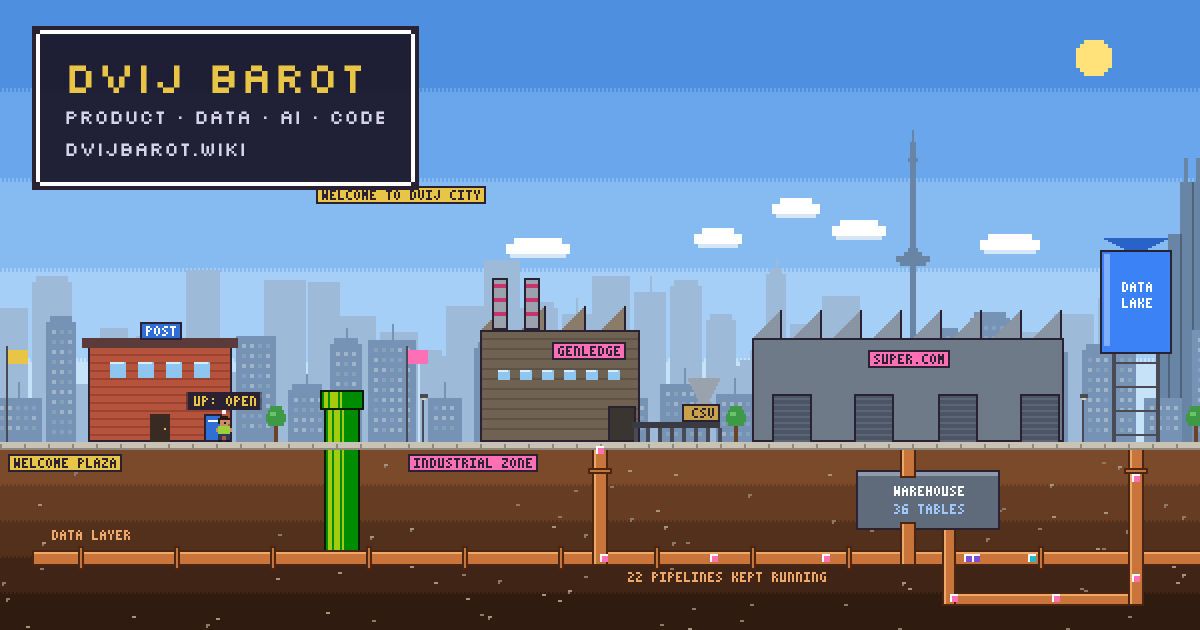
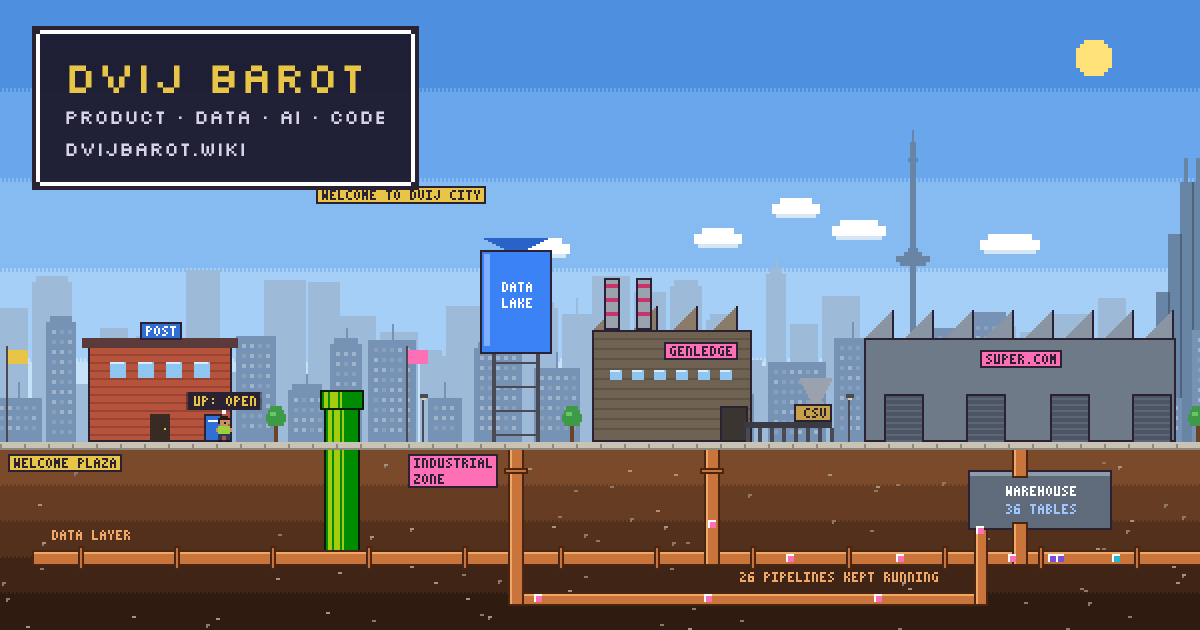
Mixed-Use Zone, OCC skyscraper, all-glass KnowIdea, Data Lake first
- Financial District is now the Mixed-Use Zone, in red (flag, plate,
  minimap, packets); its plate stacks on two lines
- The OCC is a downtown skyscraper right after Go Lime, with a two-line
  CHAMBER OF / COMMERCE sign and a rooftop flag; the old chamber art is gone
- KnowIdea is an all-glass tower: mullions, a sky reflection by day, lit
  floors at night
- Industrial Zone runs Data Lake, GenLedge refinery, Super.com warehouse;
  the deep line now leaves the tank on the lake side (shared DEEP_X for
  pipes and packets) and the Industrial Zone plate stacks clear of it
- 26 PIPELINES KEPT RUNNING: Super.com's 22 plus GenLedge's 2 data and
  2 CI/CD pipelines
- Refreshed thumbnail and OG image

Claude-Session: https://claude.ai/code/session_014qguYD8MymQYJPSwfXQGWj

Changed region(s): [[0.3392, 0.3619, 1.0, 0.9651]]

diff --git a/src/scripts/city/world.ts b/src/scripts/city/world.ts
@@ -12,7 +12,7 @@ export type Lens = 'marketing' | 'data' | 'pm' | 'ai' | 'dev' | 'downtown';
 export const LENS_COLOR: Record<Lens | 'plaza' | 'play', string> = {
   plaza: '#e8c547',
   play: '#22b8cf',
-  marketing: '#c8336c',
+  marketing: '#c62828', // Mixed-Use Zone red
   pm: '#f2a33a',
   ai: '#7c4ddb',
   data: '#ff6fb5', // Super.com pink
@@ -33,7 +33,7 @@ export const DISTRICTS: District[] = [
   { id: 'data', name: 'Industrial Zone', lens: 'data', x0: 200, x1: 650 },
   { id: 'ai', name: 'Downtown AI District', lens: 'ai', x0: 650, x1: 1200 },
   { id: 'commercial', name: 'Commercial District', lens: 'play', x0: 1200, x1: 1740 },
-  { id: 'marketing', name: 'Financial District', lens: 'marketing', x0: 1740, x1: 2280 },
+  { id: 'marketing', name: 'Mixed-Use Zone', lens: 'marketing', x0: 1740, x1: 2280 },
   { id: 'civic', name: 'Civic Centre', lens: 'pm', x0: 2280, x1: 2914 },
   { id: 'yard', name: 'Expansion', lens: 'dev', x0: 2914, x1: 3230 },
 ];
@@ -55,7 +55,7 @@ export type Ref =
 export type Kind =
   | 'kiosk' | 'monument' | 'post' | 'shop' | 'billboard' | 'hall' | 'studio' | 'park'
   | 'tower' | 'lab' | 'marble' | 'warehouse' | 'library' | 'watertower' | 'arcade'
-  | 'grocer' | 'construction' | 'warp' | 'furniture' | 'school' | 'arcadehall' | 'pond' | 'museum' | 'showroom' | 'chamber' | 'refinery' | 'hq' | 'mediahq';
+  | 'grocer' | 'construction' | 'warp' | 'furniture' | 'school' | 'arcadehall' | 'pond' | 'museum' | 'showroom' | 'refinery' | 'hq' | 'mediahq' | 'glass';
 
 export interface Structure {
   id: string;
@@ -76,14 +76,14 @@ export const STRUCTURES: Structure[] = [
   { id: 'warp-1', label: 'Warp pipe', kind: 'warp', x: 160, w: 22, h: 26, district: 'plaza', ref: { type: 'warp', to: 1 } },
 
   // Industrial Zone
-  { id: 'genledge', label: 'GenLedge Data Refinery', kind: 'refinery', x: 240, w: 120, h: 82, district: 'data', ref: { type: 'role', org: 'GenLedge' }, text: ['GENLEDGE'], riser: 300 },
-  { id: 'super', label: 'Super.com Warehouse', kind: 'warehouse', x: 376, w: 156, h: 66, district: 'data', ref: { type: 'role', org: 'Super.com' }, text: ['SUPER.COM'], riser: 454 },
-  { id: 'lake', label: 'Data Lake: pipelines', kind: 'watertower', x: 550, w: 36, h: 96, district: 'data', ref: { type: 'pipelines' }, text: ['DATA', 'LAKE'], riser: 568 },
+  { id: 'lake', label: 'Data Lake: pipelines', kind: 'watertower', x: 240, w: 36, h: 96, district: 'data', ref: { type: 'pipelines' }, text: ['DATA', 'LAKE'], riser: 258 },
+  { id: 'genledge', label: 'GenLedge Data Refinery', kind: 'refinery', x: 296, w: 120, h: 82, district: 'data', ref: { type: 'role', org: 'GenLedge' }, text: ['GENLEDGE'], riser: 356 },
+  { id: 'super', label: 'Super.com Warehouse', kind: 'warehouse', x: 432, w: 156, h: 66, district: 'data', ref: { type: 'role', org: 'Super.com' }, text: ['SUPER.COM'], riser: 510 },
   { id: 'warp-2', label: 'Warp pipe', kind: 'warp', x: 610, w: 22, h: 26, district: 'data', ref: { type: 'warp', to: 2 } },
 
   // Downtown AI District
   { id: 'podium', label: 'Podium: hackathon wins', kind: 'monument', x: 690, w: 112, h: 66, district: 'ai', ref: { type: 'hackathons' }, text: ['PODIUM'] },
-  { id: 'knowidea', label: 'KnowIdea Research Tower', kind: 'tower', x: 822, w: 72, h: 146, district: 'ai', ref: { type: 'role', org: 'KnowIdea Inc.' }, text: ['KNOWIDEA'], riser: 858 },
+  { id: 'knowidea', label: 'KnowIdea Research Tower', kind: 'glass', x: 822, w: 72, h: 146, district: 'ai', ref: { type: 'role', org: 'KnowIdea Inc.' }, text: ['KNOWIDEA'], riser: 858 },
   { id: 'marble', label: 'Urban Marble Tower', kind: 'marble', x: 914, w: 48, h: 160, district: 'ai', ref: { type: 'project', name: 'Urban Marble' }, text: ['1ST'] },
   { id: 'altaml', label: 'AltaML x Communitech', kind: 'hq', x: 982, w: 76, h: 152, district: 'ai', ref: { type: 'role', org: 'AltaML Inc.' }, text: ['ALTAML', 'COMMUNITECH'], riser: 1020 },
   { id: 'hauser', label: 'Hauser Furniture: our enterprise client', kind: 'furniture', x: 1076, w: 68, h: 66, district: 'ai', ref: { type: 'client' }, text: ['HAUSER'] },
@@ -96,11 +96,11 @@ export const STRUCTURES: Structure[] = [
   { id: 'halloffame', label: 'Hall of Fame: trophy case', kind: 'kiosk', x: 1604, w: 76, h: 52, district: 'commercial', ref: { type: 'trophies' }, text: ['HALL OF FAME'] },
   { id: 'warp-4', label: 'Warp pipe', kind: 'warp', x: 1700, w: 22, h: 26, district: 'commercial', ref: { type: 'warp', to: 4 } },
 
-  // Financial District
+  // Mixed-Use Zone
   { id: 'golime', label: 'Go Lime HQ', kind: 'mediahq', x: 1780, w: 92, h: 140, district: 'marketing', ref: { type: 'role', org: 'Go Lime Inc.' }, text: ['GO LIME'], riser: 1826 },
-  { id: 'leads', label: 'Lead reporting billboard', kind: 'billboard', x: 1890, w: 96, h: 58, district: 'marketing', ref: { type: 'role', org: 'Go Lime Inc.' }, text: ['LEADS', '12 MIN>10 S'] },
-  { id: 'swap', label: 'Swap Robotics Showroom', kind: 'showroom', x: 2004, w: 110, h: 62, district: 'marketing', ref: { type: 'role', org: 'Swap Robotics' }, text: ['SWAP ROBOTICS'], riser: 2080 },
-  { id: 'occ', label: 'Ontario Chamber of Commerce', kind: 'chamber', x: 2128, w: 94, h: 88, district: 'marketing', ref: { type: 'role', org: 'Ontario Chamber of Commerce' }, text: ['CHAMBER OF COMMERCE'], riser: 2175 },
+  { id: 'occ', label: 'Ontario Chamber of Commerce', kind: 'tower', x: 1890, w: 72, h: 150, district: 'marketing', ref: { type: 'role', org: 'Ontario Chamber of Commerce' }, text: ['CHAMBER OF', 'COMMERCE'], riser: 1926 },
+  { id: 'leads', label: 'Lead reporting billboard', kind: 'billboard', x: 1980, w: 96, h: 58, district: 'marketing', ref: { type: 'role', org: 'Go Lime Inc.' }, text: ['LEADS', '12 MIN>10 S'] },
+  { id: 'swap', label: 'Swap Robotics Showroom', kind: 'showroom', x: 2094, w: 110, h: 62, district: 'marketing', ref: { type: 'role', org: 'Swap Robotics' }, text: ['SWAP ROBOTICS'], riser: 2170 },
   { id: 'warp-5', label: 'Warp pipe', kind: 'warp', x: 2240, w: 22, h: 26, district: 'marketing', ref: { type: 'warp', to: 5 } },
 
   // Civic Centre
@@ -120,7 +120,11 @@ export const STRUCTURES: Structure[] = [
 
 
 // The warehouse junction every pipeline flows into.
-export const JUNCTION_X = 454;
+export const JUNCTION_X = 510;
+// Where the deep line to the Data Lake drops out of the warehouse tank: the
+// side of the tank that faces the lake.
+const LAKE_RISER = STRUCTURES.find((s) => s.id === 'lake')!.riser!;
+export const DEEP_X = JUNCTION_X + (LAKE_RISER < JUNCTION_X ? -20 : 20);
 // Bottom edge of the warehouse tank, where pipelines plug in.
 export const TANK_BOTTOM = GROUND + 44;
 
@@ -139,7 +143,7 @@ export const PIPE_PATHS: PipePath[] = STRUCTURES.filter((s) => s.riser && s.id !
   return {
     color: LENS_COLOR[districtLens(s.district)],
     points: deep
-      ? [[JUNCTION_X + 20, TANK_BOTTOM], [JUNCTION_X + 20, y], [s.riser!, y], [s.riser!, GROUND + 4]]
+      ? [[DEEP_X, TANK_BOTTOM], [DEEP_X, y], [s.riser!, y], [s.riser!, GROUND + 4]]
       : [[s.riser!, GROUND + 4], [s.riser!, y], [JUNCTION_X, y], [JUNCTION_X, TANK_BOTTOM]],
   };
 });

diff --git a/src/scripts/city/art.ts b/src/scripts/city/art.ts
@@ -2,7 +2,7 @@
 // No sprites to download, and day/night is just a palette swap.
 
 import {
-  WORLD_W, WORLD_H, GROUND, TRUNK_Y, DEEP_Y, JUNCTION_X, TANK_BOTTOM, DISTRICTS, LENS_COLOR,
+  WORLD_W, WORLD_H, GROUND, TRUNK_Y, DEEP_Y, DEEP_X, JUNCTION_X, TANK_BOTTOM, DISTRICTS, LENS_COLOR,
   STRUCTURES, PIPE_PATHS, type Structure, type PipePath,
 } from './world';
 
@@ -364,6 +364,32 @@ function drawStructure(ctx: Ctx, s: Structure, p: Palette) {
       text(ctx, '1', x + w - 42, GROUND - 25, '#2a2233');
       break;
     }
+    case 'glass': {
+      // All-glass curtain wall: mullions, a diagonal sky reflection, lit floors at night.
+      const gx = x + 6, gw = w - 12, gTop = top + 10;
+      const pane = p.night ? '#1c2a4a' : shade('#7fb6e6', p);
+      const paneHi = p.night ? '#2a3c66' : '#b9dcf8';
+      rect(ctx, gx - 1, gTop - 1, gw + 2, GROUND - gTop + 1, p.outline);
+      rect(ctx, gx, gTop, gw, GROUND - gTop, pane);
+      if (p.night) {
+        for (let yy = gTop + 4; yy < GROUND - 14; yy += 5)
+          for (let xx = gx + 1; xx < gx + gw - 1; xx += 4) if (r() < 0.55) rect(ctx, xx, yy, 3, 3, p.lit);
+      } else {
+        for (let k = 0; k < GROUND - gTop; k += 1) {
+          const rx = gx + Math.round(k * 0.35) % (gw + 18) - 6;
+          if (rx >= gx && rx + 5 <= gx + gw) rect(ctx, rx, gTop + k, 5, 1, paneHi);
+        }
+      }
+      for (let xx = gx + 4; xx < gx + gw; xx += 4) rect(ctx, xx, gTop, 1, GROUND - gTop, shade('#4a6f96', p));
+      for (let yy = gTop + 10; yy < GROUND; yy += 10) rect(ctx, gx, yy, gw, 1, shade('#5d84ad', p));
+      box(ctx, x + 14, top, w - 28, 12, p.night ? '#24365e' : shade('#9cc8ee', p), p);
+      rect(ctx, cx, top - 16, 1, 16, p.lamp);
+      box(ctx, x, GROUND - 14, w, 14, shade('#2c3a56', p), p);
+      rect(ctx, cx - 7, GROUND - 12, 14, 12, p.night ? '#e6cf8f' : '#cfe6f5');
+      rect(ctx, cx, GROUND - 12, 1, 12, p.outline);
+      sign(ctx, label, cx, top + 18, '#7c4ddb', '#ffffff', p);
+      break;
+    }
     case 'tower': {
       box(ctx, x + 8, top + 10, w - 16, h - 10, shade('#3c4f73', p), p);
       box(ctx, x + 16, top, w - 32, 12, shade('#4b6190', p), p);
@@ -371,7 +397,13 @@ function drawStructure(ctx: Ctx, s: Structure, p: Palette) {
       windows(ctx, p, r, x + 13, top + 26, w - 26, h - 50, 3, 4, 2, 3);
       box(ctx, x, GROUND - 16, w, 16, shade('#2c3a56', p), p);
       door(ctx, cx, 12, 12, shade('#1a2236', p));
-      sign(ctx, label, cx, top + 14, '#7c4ddb', '#ffffff', p);
+      // One sign per text line, in the district's colour (two lines for long names).
+      const lens = DISTRICTS.find((d) => d.id === s.district)!.lens;
+      (s.text ?? [label]).forEach((line, i) => sign(ctx, line, cx, top + 14 + i * 10, LENS_COLOR[lens], '#ffffff', p));
+      if (s.id === 'occ') {
+        rect(ctx, cx + 1, top - 16, 7, 5, shade('#e8e0d0', p));
+        rect(ctx, cx + 3, top - 15, 3, 3, shade('#c62828', p));
+      }
       break;
     }
     case 'lab': {
@@ -578,27 +610,6 @@ function drawStructure(ctx: Ctx, s: Structure, p: Palette) {
       sign(ctx, label, bcx, top + 16, '#c8336c', '#ffffff', p);
       break;
     }
-    case 'chamber': {
-      // Limestone civic front: a business building that looks toward City Hall.
-      const stone = shade('#d9d2c2', p), dark = shade('#a89f8c', p);
-      box(ctx, x, top + 14, w, h - 14, stone, p);
-      for (let i = 0; i < 6; i++) rect(ctx, x - 2 + i, top + 14 - i * 2, w + 4 - i * 2, 2, dark);
-      rect(ctx, x - 2, top + 14, w + 4, 2, p.outline);
-      for (let row = 0; row < 2; row++)
-        for (let i = 0; i < 4; i++) {
-          const wx = x + 10 + i * ((w - 28) / 3), wy = top + 30 + row * 20;
-          rect(ctx, wx - 1, wy - 1, 10, 13, dark);
-          rect(ctx, wx, wy, 8, 11, p.night ? (i % 2 ? p.lit : p.unlit) : p.glass[0]);
-          rect(ctx, wx, wy + 5, 8, 1, dark);
-        }
-      for (let i = 0; i < 2; i++) rect(ctx, cx - 16 + i * 28, GROUND - 26, 4, 26, shade('#efe9dc', p));
-      rect(ctx, cx - 18, GROUND - 3, 36, 3, dark);
-      door(ctx, cx, 14, 18, shade('#3a4a5a', p));
-      rect(ctx, x + w - 7, top - 6, 1, 20, p.lamp);
-      rect(ctx, x + w - 6, top - 6, 7, 5, shade('#2f6fd6', p));
-      sign(ctx, label, cx, top + 18, '#2f6fd6', '#ffffff', p);
-      break;
-    }
     case 'refinery': {
       // Data refinery: files ride the conveyor in on the right, tables leave by pipe.
       const hallW = w - 40, belt = GROUND - 10;
@@ -768,7 +779,7 @@ function drawUnderground(ctx: Ctx, p: Palette) {
 
   // Trunk lines
   pipe(ctx, 20, TRUNK_Y, WORLD_W - 20, TRUNK_Y, p);
-  pipe(ctx, JUNCTION_X + 20, DEEP_Y, STRUCTURES.find((x) => x.id === 'lake')!.riser!, DEEP_Y, p, 7);
+  pipe(ctx, DEEP_X, DEEP_Y, STRUCTURES.find((x) => x.id === 'lake')!.riser!, DEEP_Y, p, 7);
   for (let xx = 40; xx < WORLD_W - 20; xx += 48) flange(ctx, xx, TRUNK_Y, false, p);
 
   // Risers from buildings
@@ -778,7 +789,7 @@ function drawUnderground(ctx: Ctx, p: Palette) {
     pipe(ctx, s.riser, GROUND + 4, s.riser, deep ? DEEP_Y : TRUNK_Y, p);
     flange(ctx, s.riser, GROUND + 14, true, p);
   }
-  pipe(ctx, JUNCTION_X + 20, TANK_BOTTOM, JUNCTION_X + 20, DEEP_Y, p, 7);
+  pipe(ctx, DEEP_X, TANK_BOTTOM, DEEP_X, DEEP_Y, p, 7);
 
   // Warehouse junction tank
   const tx = JUNCTION_X - 26, ty = GROUND + 14;
@@ -797,7 +808,8 @@ function drawUnderground(ctx: Ctx, p: Palette) {
 
   // Layer labels
   text(ctx, 'DATA LAYER', 26, GROUND + 44, '#f0a868');
-  text(ctx, '22 PIPELINES KEPT RUNNING', JUNCTION_X - 140, TRUNK_Y + 7, '#f0a868');
+  // 22 safeguarded at Super.com, plus GenLedge's 2 data and 2 CI/CD pipelines.
+  text(ctx, '26 PIPELINES KEPT RUNNING', JUNCTION_X - 140, TRUNK_Y + 7, '#f0a868');
 }
 
 function drawStreet(ctx: Ctx, p: Palette) {
@@ -810,7 +822,7 @@ function drawStreet(ctx: Ctx, p: Palette) {
     const label = d.name.toUpperCase().replace("'", '');
     const plate = shade(LENS_COLOR[d.lens], p);
     // Long names would run under the pipes beside them, so these two stack on two lines.
-    const stacked = d.id === 'commercial' || d.id === 'marketing';
+    const stacked = d.id === 'commercial' || d.id === 'marketing' || d.id === 'data';
     const lines = stacked ? [label.slice(0, label.lastIndexOf(' ')), label.slice(label.lastIndexOf(' ') + 1)] : [label];
     const pw = Math.max(...lines.map((l) => textWidth(l))) + 6;
     box(ctx, d.x0 + 4, GROUND + 6, pw, lines.length * 8 + 1, plate, p);
@@ -1066,7 +1078,7 @@ export function drawBeacons(ctx: Ctx, t: number, originX: number, offsetY: numbe
   if (!on) return;
   const tops: [number, number][] = [];
   for (const s of STRUCTURES) {
-    if (s.kind === 'tower') tops.push([s.x + s.w / 2, GROUND - s.h - 17]);
+    if (s.kind === 'tower' || s.kind === 'glass') tops.push([s.x + s.w / 2, GROUND - s.h - 17]);
     if (s.kind === 'hq') tops.push([s.x + s.w / 2 - 1, GROUND - s.h - 13]);
     if (s.kind === 'marble') tops.push([s.x + s.w / 2 - 1, GROUND - s.h - 7]);
     if (s.kind === 'lab') tops.push([s.x + s.w / 2 - 1, GROUND - s.h + 1]);

diff --git a/src/scripts/city/engine.ts b/src/scripts/city/engine.ts
@@ -424,7 +424,7 @@ export function mountCity(root: HTMLElement): City {
     </table>
     <h3>How the city works</h3>
     <ul>
-      <li>Districts are lenses: the Industrial Zone holds the data work, Downtown is AI, the Commercial District is for play, the Financial District is marketing and sales, the Civic Centre is product and public life, and Expansion is what is being built next.</li>
+      <li>Districts are lenses: the Industrial Zone holds the data work, Downtown is AI, the Commercial District is for play, the Mixed-Use Zone is marketing and sales, the Civic Centre is product and public life, and Expansion is what is being built next.</li>
       <li>The copper pipes underground are data pipelines. The packets are real flows of work into the warehouse.</li>
       <li>Day, night, sound, and motion live in Settings.</li>
     </ul>`;
